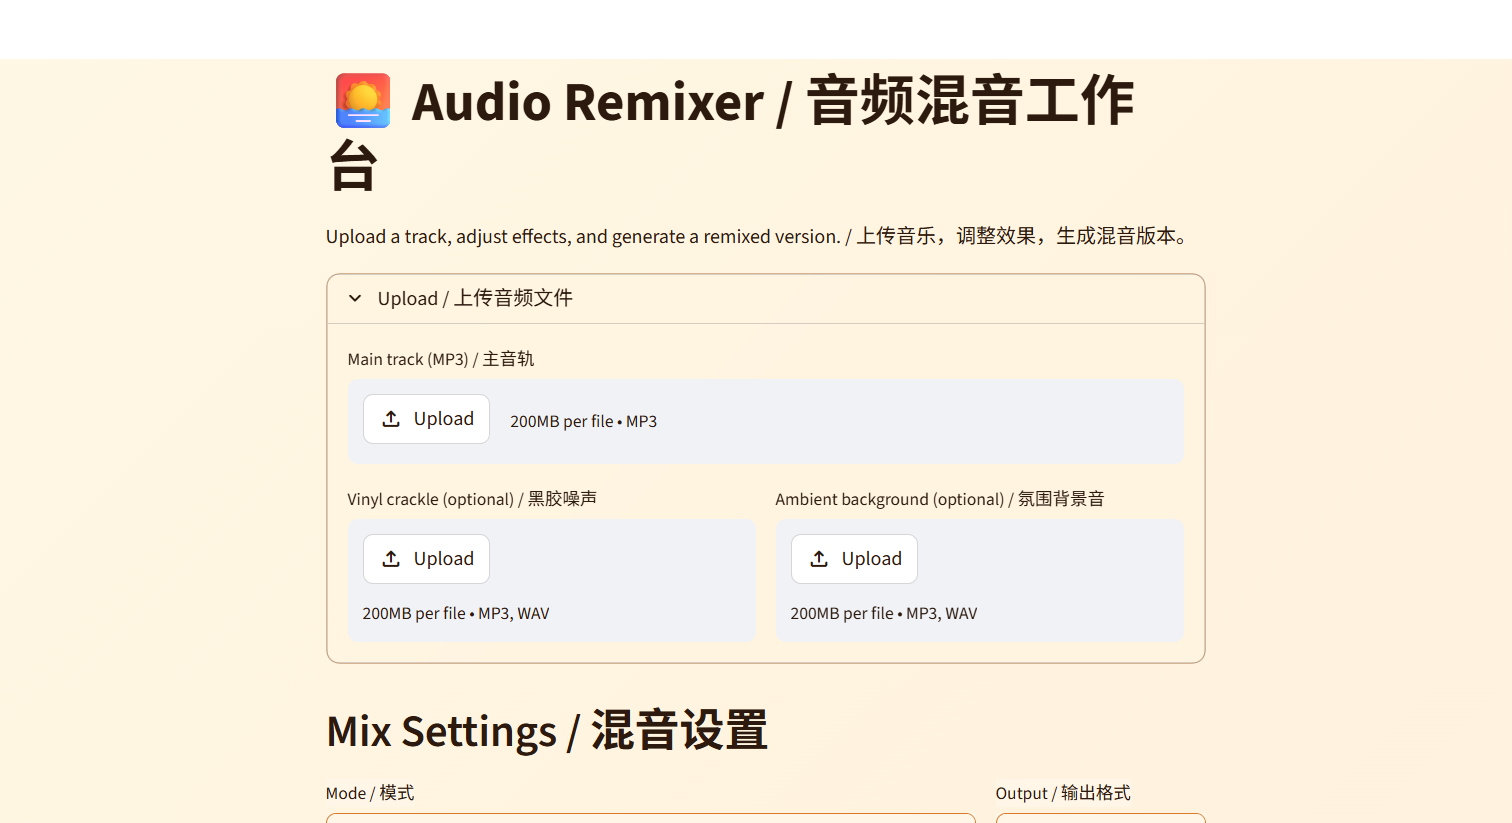
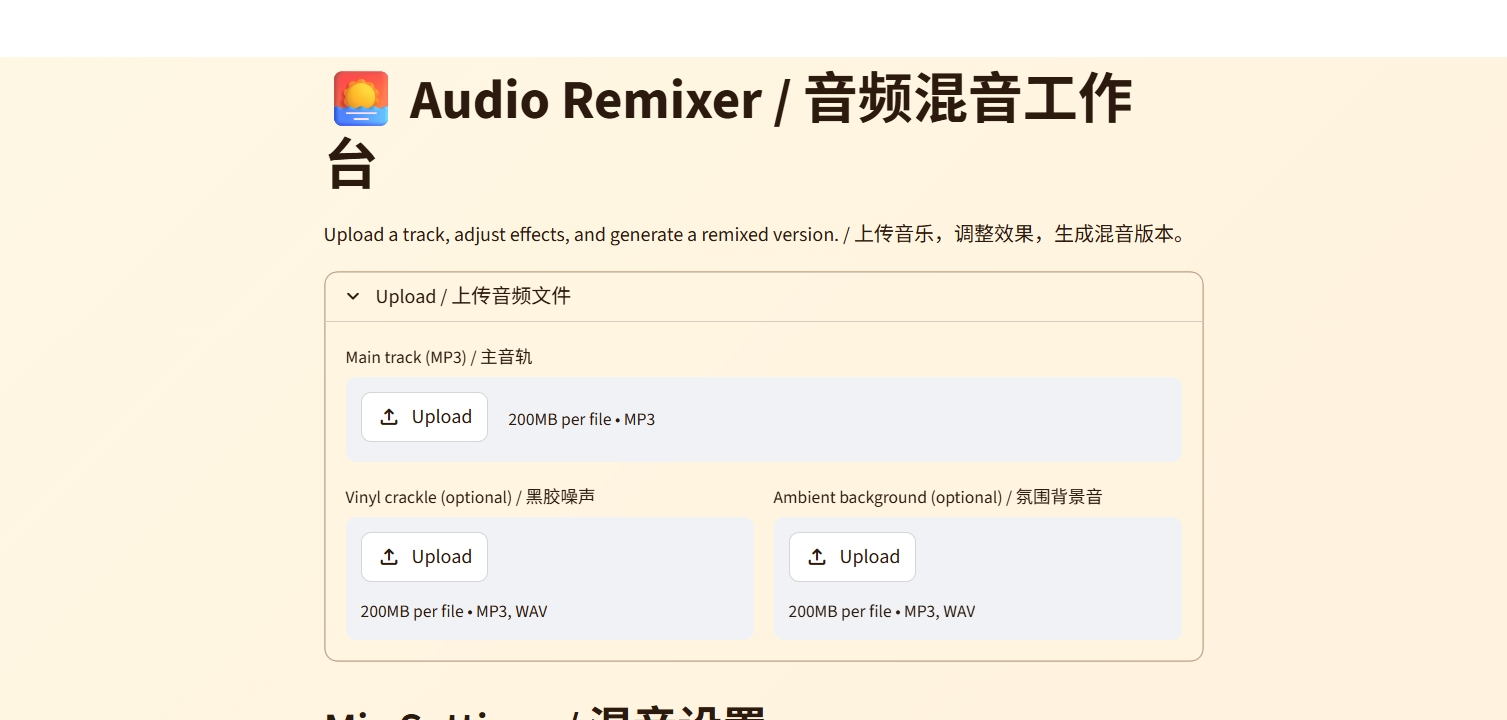
忘了

diff --git a/.kip/src/data/gallery.ts b/.kip/src/data/gallery.ts
@@ -63,12 +63,12 @@ export const galleryItems = [
     id: 12,
     title: "Artwork 10",
     image: "images/gallery/art12.jpg",
-    description: "Fan art of Arknights.",
+    description: "Fan art of Arknights.This painting is a commissioned artwork I created for a client.",
   },
   {
     id: 13,
     title: "Artwork 11",
     image: "images/gallery/art13.jpg",
-    description: "Commissioned works from my early freelance period. This piece has received over 1,000 likes across all platforms.",
+    description: "Commissioned works from my early freelance period. This painting is a commissioned artwork I created for a client.",
   },
 ]
